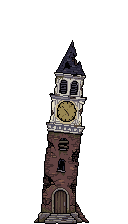
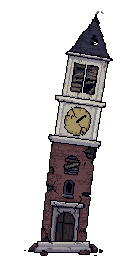
V7 W2: Clock tower T1-T5 regenerated at village scale, stretch removed

Changed region(s): [[0.1875, 0.0312, 0.9062, 1.0]]

diff --git a/test/villageLayout.test.js b/test/villageLayout.test.js
@@ -94,10 +94,10 @@ describe('clockTowerSlot', () => {
     test('844x390 landscape: feet on the horizon just above the floor band, centred in the field', () => {
         const s = slot();
         // field 544 wide from x=160; centre = 160 + 0.55 * 544 = 459.2; horizon = 334 - 72 - 4 = 258
-        // STOPGAP: stretched by the biggest scale that fits (here 1.43 of the 1.5 max), feet lowered into the floor band
+        // 2026-10-29: the stretch stopgap is gone, the regenerated 128x256 art is drawn 1:1
         const k = VillageLayout.clockScaleFor(334, OPTS);
-        expect(k).toBeGreaterThan(1.3);
-        expect(s.width).toBe(Math.round(128 * k));
+        expect(k).toBe(1);
+        expect(s.width).toBe(128);
         expect(s.left).toBe(Math.round(459.2 - s.width / 2));
         expect(s.feetY).toBe(VillageLayout.clockFeetY(334, OPTS));
         expect(s.top).toBe(s.feetY - s.height);
@@ -105,27 +105,24 @@ describe('clockTowerSlot', () => {
         expect(s.kind).toBe('punctuality');
     });
 
-    test('STOPGAP: the Clock tower is the authored canvas x the scale that fits (1 = clean 1:1 pixels)', () => {
+    test('the Clock tower is the authored 128x256 canvas drawn 1:1 (clean pixels, no stretch)', () => {
         const s = slot();
-        const k = VillageLayout.clockScaleFor(334, OPTS);
-        expect(s.width).toBe(Math.round(CONFIG.VILLAGE_SPRITE_W_PX * k));
-        expect(s.height).toBe(Math.round(CONFIG.VILLAGE_SPRITE_H_PX * k));
-        const unscaled = VillageLayout.clockTowerSlot(844, 334, 160, 140, 3, { ...OPTS, clockScale: 1 });
-        expect(unscaled.width).toBe(128);
-        expect(unscaled.height).toBe(224);
+        expect(s.width).toBe(CONFIG.VILLAGE_SPRITE_W_PX);
+        expect(s.height).toBe(CONFIG.VILLAGE_SPRITE_H_PX);
+        expect(s.width).toBe(128);
+        expect(s.height).toBe(256);
     });
 
-    test('CONFIG.VILLAGE_CLOCK_SCALE is a MAXIMUM: roomy canvases get it in full, short ones less (never below 1)', () => {
-        expect(VillageLayout.clockScaleFor(356, OPTS)).toBe(CONFIG.VILLAGE_CLOCK_SCALE);
-        expect(VillageLayout.clockScaleFor(298, OPTS)).toBeLessThan(CONFIG.VILLAGE_CLOCK_SCALE);
-        expect(VillageLayout.clockScaleFor(298, OPTS)).toBeGreaterThan(1);
-        expect(VillageLayout.clockScaleFor(100, OPTS)).toBe(1);
-        expect(VillageLayout.clockScaleFor(334, { ...OPTS, clockScale: 1 })).toBe(1);
+    test('CONFIG.VILLAGE_CLOCK_SCALE is 1: the 1.3x stopgap stretch was removed when the art was regenerated', () => {
+        expect(CONFIG.VILLAGE_CLOCK_SCALE).toBe(1);
+        [356, 334, 298, 100].forEach(h => expect(VillageLayout.clockScaleFor(h, OPTS)).toBe(1));
     });
 
-    test('the tower scale is sane (>= 1, <= 1.5)', () => {
-        expect(CONFIG.VILLAGE_CLOCK_SCALE).toBeGreaterThanOrEqual(1);
-        expect(CONFIG.VILLAGE_CLOCK_SCALE).toBeLessThanOrEqual(1.5);
+    test('the scale lever still works as a MAXIMUM if it is ever raised again (never below 1)', () => {
+        const o = { ...OPTS, clockScale: 1.5 };
+        expect(VillageLayout.clockScaleFor(500, o)).toBe(1.5);
+        expect(VillageLayout.clockScaleFor(298, o)).toBeLessThan(1.5);
+        expect(VillageLayout.clockScaleFor(100, o)).toBe(1);
     });
 
     test('every number is a whole pixel', () => {
@@ -185,7 +182,7 @@ describe('shipped sprites', () => {
         return { w: b.readUInt32BE(16), h: b.readUInt32BE(20) };
     }
 
-    test.each([1, 2, 3, 4, 5])('tier %i exists and is the authored 128x224 canvas', tier => {
+    test.each([1, 2, 3, 4, 5])('tier %i exists and is the authored 128x256 canvas', tier => {
         const file = path.join(__dirname, '..', VillageLayout.spriteUrl('punctuality', tier));
         expect(fs.existsSync(file)).toBe(true);
         const { w, h } = pngSize(file);
@@ -327,7 +324,7 @@ describe('shipped jail sprites', () => {
     });
 });
 
-describe('clock tower fit on short canvases (the stretched tower is taller)', () => {
+describe('clock tower fit on short canvases (the tower is 246px of art, so short canvases lower its feet)', () => {
     const feet = h => VillageLayout.clockFeetY(h, OPTS);
     const artTop = h => feet(h) - Math.ceil(CONFIG.VILLAGE_CLOCK_ART_H_PX * VillageLayout.clockScaleFor(h, OPTS));
     const base = h => h - CONFIG.GROUND_FLOOR_HEIGHT - CONFIG.VILLAGE_FEET_ABOVE_FLOOR_PX;
@@ -351,10 +348,23 @@ describe('clock tower fit on short canvases (the stretched tower is taller)', ()
         });
     });
 
-    test('a zero max drop means no lowering (and a smaller tower to fit)', () => {
-        const o = { ...OPTS, feetMaxDropPx: 0 };
+    test('a zero max drop means no lowering (and a smaller stretch to fit, if the stretch lever is raised)', () => {
+        const big = { ...OPTS, clockScale: 1.5 };
+        const o = { ...big, feetMaxDropPx: 0 };
         expect(VillageLayout.clockFeetY(298, o)).toBe(base(298));
-        expect(VillageLayout.clockScaleFor(298, o)).toBeLessThan(VillageLayout.clockScaleFor(298, OPTS));
+        expect(VillageLayout.clockScaleFor(334, o)).toBeLessThan(VillageLayout.clockScaleFor(334, big));
+    });
+
+    test('1:1 at 1280x720 (canvas 298): T5 is the tallest tier and fits exactly with the feet lowered the full 24px', () => {
+        expect(feet(298)).toBe(base(298) + CONFIG.VILLAGE_FEET_MAX_DROP_PX);
+        expect(artTop(298)).toBeGreaterThanOrEqual(0);
+    });
+
+    test('1:1 on the common phone canvases (334, 356): the tower fits with room above, feet on the horizon', () => {
+        [334, 356].forEach(h => {
+            expect(feet(h)).toBe(base(h));
+            expect(artTop(h)).toBeGreaterThanOrEqual(0);
+        });
     });
 
     test('the tower feet stay behind the back zombie lane', () => {

diff --git a/js/config.js b/js/config.js
@@ -509,13 +509,13 @@ const CONFIG = {
     // Sprites are authored 128 wide and drawn 1:1 (same pixel scale as the animated zombies).
     VILLAGE_ENABLED: true, // false hides the whole layer
     VILLAGE_SPRITE_W_PX: 128, // Clock tower canvas width
-    VILLAGE_SPRITE_H_PX: 224, // Clock tower canvas height (T5 needs the headroom); bottom-anchored
+    VILLAGE_SPRITE_H_PX: 256, // Clock tower canvas height (regenerated 2026-10-29, T1-T5 all 128x256); bottom-anchored
     VILLAGE_FEET_ABOVE_FLOOR_PX: 4, // feet sit this far above the floor band's top edge (the horizon)
-    // STOPGAP 2026-10-29 (Jeremy): the Clock tower art is ~1.3x too small next to the other buildings (door
-    // 12x20 vs the jail's 16x26). Until it is regenerated wider/taller, the sprite is STRETCHED by up to this factor
-    // (non-whole scale = slightly uneven pixels, against the ART_STYLE rule). Set to 1 once the new art ships.
-    VILLAGE_CLOCK_SCALE: 1.5, // MAXIMUM: short screens get the biggest scale that fits (VillageLayout.clockScaleFor)
-    VILLAGE_CLOCK_ART_H_PX: 196, // tallest tier's visible art height (T5), unscaled; used to decide how far to lower the feet
+    // The 1.3x STOPGAP stretch (2026-10-29 early) is OVER: the regenerated 128x256 Clock tower art has a door the same
+    // size as the Jailhouse's, so the tower is drawn 1:1 like every other building. Kept as a lever (it is a MAXIMUM
+    // scale in VillageLayout.clockScaleFor); leave it at 1 -- a non-whole scale breaks the ART_STYLE pixel rule.
+    VILLAGE_CLOCK_SCALE: 1, // 1 = clean 1:1 pixels
+    VILLAGE_CLOCK_ART_H_PX: 246, // tallest tier's visible art height (T5 = 246, T1 = 245), used to decide how far to lower the feet; must fit a 298px canvas (feet drop 24)
     VILLAGE_FEET_MAX_DROP_PX: 24, // the tower's feet may sink this far below the horizon on short canvases
     VILLAGE_CLOCK_X_FRAC: 0.55, // tower centre = church edge + frac x walking-field width
     VILLAGE_MIN_FIELD_PX: 220, // a narrower walking field hides the village

diff --git a/js/villageLayout.js b/js/villageLayout.js
@@ -3,12 +3,12 @@
  * (V7 W2, first slice 2026-10-29; docs/ART_STYLE.md "Achievement village art",
  * docs/WORLD_FEEDBACK_PLAN.md W2). No DOM, no State.
  *
- * This slice draws TWO buildings: the Clock tower (kind `punctuality`, 128x224) and the Jailhouse
+ * This slice draws TWO buildings: the Clock tower (kind `punctuality`, 128x256) and the Jailhouse
  * (kind `lurkers`, 128x128; added 2026-10-29). The other kinds, the tier-from-achievements wiring
  * and the close-up view are later W2 steps. Each building is placed at a fraction of the walking
  * field; a building that would overlap the church or another building is dropped, not moved.
  *
- *   SPRITE   authored on a 128px-wide canvas (Clock tower 128x224, bottom-anchored, tower art
+ *   SPRITE   authored on a 128px-wide canvas (Clock tower 128x256, bottom-anchored, tower art
  *            bottom-aligned inside it) and shown 1:1, the same pixel scale as the animated
  *            zombies and heroes. Never scaled, never rotated.
  *   FEET     on the horizon: just above the floor band's top edge (CONFIG.GROUND_FLOOR_HEIGHT),
@@ -22,7 +22,7 @@
 const VillageLayout = (() => {
     const DEFAULTS = {
         spriteWidthPx: 128,
-        spriteHeightPx: 224,
+        spriteHeightPx: 256,
         floorHeightPx: 72,
         feetAboveFloorPx: 4,
         clockXFrac: 0.55,
@@ -34,8 +34,8 @@ const VillageLayout = (() => {
         jailXFrac: 0.2,
         devJailTier: 3,
         minGapPx: 8,
-        clockScale: 1.5,
-        clockArtHeightPx: 196,
+        clockScale: 1,
+        clockArtHeightPx: 246,
         feetMaxDropPx: 24,
     };
 

diff --git a/test/villageView.test.js b/test/villageView.test.js
@@ -38,7 +38,7 @@ test('places one Clock tower sprite at the layout slot', () => {
     expect(imgs[0].getAttribute('src')).toBe('Assets/Village/punctuality_t3.png');
     expect(imgs[0].style.left).toBe(want.left + 'px');
     expect(imgs[0].style.top).toBe(want.top + 'px');
-    expect(imgs[0].style.width).toBe(want.width + 'px'); // stretched by CONFIG.VILLAGE_CLOCK_SCALE (stopgap)
+    expect(imgs[0].style.width).toBe(want.width + 'px'); // 128 wide, drawn 1:1 (the 1.3x stretch stopgap is gone)
     expect(imgs[0].style.height).toBe(want.height + 'px');
     expect(imgs[0].dataset.kind).toBe('punctuality');
     expect(imgs[0].dataset.tier).toBe('3');

diff --git a/sw.js b/sw.js
@@ -15,7 +15,7 @@
  * edited CSS/JS) so returning users pick up the update instead of serving a
  * stale cached shell forever — the whole point of a version string here.
  */
-const CACHE_NAME = 'deadline-shell-v136';
+const CACHE_NAME = 'deadline-shell-v137';
 
 const APP_SHELL = [
     './',

diff --git a/docs/ROADMAP.md b/docs/ROADMAP.md
@@ -252,9 +252,9 @@ Scoped from a structured live playtest.
 - [x] **HUD points button opens the Shop (2026-10-27, Claude app session, Sonnet; phone-verified by Jeremy):** the points stat is a button with the ↗ arrow that opens the Shop; the base-health button gained the arrow; the Shop header shows the points balance (red in debt). sw v127/v128. DECISIONS 2026-10-27.
 - [x] **Daily record D2 -- build steps 1-4 (BUILT 2026-10-27, Claude app session, Sonnet; plan `docs/DAILY_RECORD_PLAN.md`):** pure `js/dailyRecord.js` + tests; schema 15 (`save.today`) + `deadline.days` helpers + export/import merge; seams wired through `recordDaily`/`State.bumpToday` (completion/undo, overdue, lurkers, live + offline damage, shop/tokens, reschedule, KO/revive, timers); throttled `active` tracking; `State.closeDailyRecord` at rollover (18-month roll-up). sw v130. NOT yet verified on a phone.
 - [x] **Daily record D2 -- step 5: Stats best/worst day per run (BUILT 2026-10-27, Claude app session, Sonnet; Jeremy: default weights 1/1/1):** `DailyRecord.dayScore` / `bestWorstByRun` (pure), `CONFIG.DAILY_SCORE_WEIGHTS`, "Best & worst day" rows in the expanded past-run cards and the live current-run panel (live run also counts today's open record); sw v131; Jest 90 suites / 1,951 green on a full clone WITH `Assets/` (the 7 asset suites ran too). Not yet seen on a phone with real data: `deadline.days` gets its first entry at the first midnight rollover.
-- [ ] **Visual track V7 — World feedback: sky / distant city / graveyard (BRAINSTORMED 2026-10-27, Claude app session, Opus; DRAFT plan `docs/WORLD_FEEDBACK_PLAN.md`, nothing decided yet):** each scene region owns one time scale (sky = today, city = goals, graveyard = all-time achievements/runs). Sessions W0-W6 + design sessions D1 (Goals + Targets, Fable) and D2 (optional daily record for past-day review). Mockups built 2026-10-27 (Design canvas). DECIDED: V1 trees/tombstones removed when the graveyard lands; daily record (D2) is for AI insights + best/worst days, not back-paging. OPEN: horde vs meteor. **W0 layout BUILT 2026-10-28 (Claude app session, Opus plan -> Sonnet build; sw v133; Jest 93 suites / 2,003):** graveyard hill on the right (140px, 3 staggered headstone lanes, tree partly off-screen), past-run graves creeping across the field (newest by the hill, oldest fade near the church), zombie field ends at the hill; city band deferred to W5. Not phone-checked. **W2 REDEFINED 2026-10-28 evening (art-direction session, no code): the graveyard headstone markers become an Americana small-town VILLAGE on the horizon hill (8 buildings x 5 tiers) + the Memorial on the hill; spec in `docs/ART_STYLE.md` "Achievement village art"; sprites drawn at 2x like the church/zombies; Clock tower is the test building (violet version kept as an alternative in `Assets/Village/_source/gothic-violet/`).** **UPDATE 2026-10-29: Clock tower T1-T5 art DONE (128x192 canvas at 1x, revised rule) and the first village layer is BUILT on branch `feature/village-clock-tower` (dev tier from CONFIG; sw v134).** Next: other 8 buildings (new session), real tier data; W1 sky weather is independent.
+- [ ] **Visual track V7 — World feedback: sky / distant city / graveyard (BRAINSTORMED 2026-10-27, Claude app session, Opus; DRAFT plan `docs/WORLD_FEEDBACK_PLAN.md`, nothing decided yet):** each scene region owns one time scale (sky = today, city = goals, graveyard = all-time achievements/runs). Sessions W0-W6 + design sessions D1 (Goals + Targets, Fable) and D2 (optional daily record for past-day review). Mockups built 2026-10-27 (Design canvas). DECIDED: V1 trees/tombstones removed when the graveyard lands; daily record (D2) is for AI insights + best/worst days, not back-paging. OPEN: horde vs meteor. **W0 layout BUILT 2026-10-28 (Claude app session, Opus plan -> Sonnet build; sw v133; Jest 93 suites / 2,003):** graveyard hill on the right (140px, 3 staggered headstone lanes, tree partly off-screen), past-run graves creeping across the field (newest by the hill, oldest fade near the church), zombie field ends at the hill; city band deferred to W5. Not phone-checked. **W2 REDEFINED 2026-10-28 evening (art-direction session, no code): the graveyard headstone markers become an Americana small-town VILLAGE on the horizon hill (8 buildings x 5 tiers) + the Memorial on the hill; spec in `docs/ART_STYLE.md` "Achievement village art"; sprites drawn at 2x like the church/zombies; Clock tower is the test building (violet version kept as an alternative in `Assets/Village/_source/gothic-violet/`).** **UPDATE 2026-10-29: Clock tower T1-T5 art DONE (128x192 canvas at 1x, revised rule) and the first village layer is BUILT on branch `feature/village-clock-tower` (dev tier from CONFIG; sw v134). LATER 2026-10-29: the tower was regenerated at village scale (128x256, 1:1, stretch removed, sw v137, see the checked item below).** Next: other 8 buildings (new session), real tier data; W1 sky weather is independent.
   - [ ] **V7 village: Jailhouse (kind `lurkers`) T1-T5 BUILT on the village layer (2026-10-29, branch `feature/village-clock-tower`; sw v135; dev tier via `?jailTier=`).** Fieldstone county jail, 128x128, left of the tower; dropped (never nudged) when the field is too narrow. Not live-checked in the browser or on a phone.
-  - [ ] **V7 village: Clock tower is TOO SMALL next to the other buildings (STOPGAP BUILT 2026-10-29: the sprite is stretched `CONFIG.VILLAGE_CLOCK_SCALE` = 1.3x with uneven pixels, and on short canvases both buildings step down up to `VILLAGE_FEET_MAX_DROP_PX` = 24 into the floor band; real fix still open, set the scale to 1 when the new art ships).** Measured: tower door opening ~12x20 px vs jail ~16x26 px, so the tower needs ~1.3x; tower shaft is only ~30 px wide in a 39x192 art. Can't stretch (non-whole scale = uneven pixels; 2x = 448 px, too tall). FIX = regenerate T1-T5 wider AND taller in PixelLab: shaft ~50 px, art <= ~232 px (canvas 128x240, T5 capped at the same height), door >= 16x26; prompt in `docs/ART_STYLE.md`. Height budget: phone 844x390 feet y258 -> top ~26 (fits), 915x412 fits, desktop 1280x720 (canvas 298) clips ~28 px -> also lower the feet into the top of the floor band (~16 px, still behind the back lane at +24) and update `VILLAGE_SPRITE_H_PX`. Keep the jail <= the tower in height.
+  - [x] **V7 village: Clock tower regenerated at village scale and SHIPPED (DONE 2026-10-29; sw v137; village suites 118/118 in a cloud copy, full `npm test` still to run on your machine; not live-checked on a phone).** T1-T5 are 128x256, drawn 1:1; `CONFIG.VILLAGE_CLOCK_SCALE` = 1 (stretch removed), `VILLAGE_SPRITE_H_PX` 256, `VILLAGE_CLOCK_ART_H_PX` 246, feet lowered the full 24 px at desktop 1280x720 (T5 fits exactly). Details + the PixelLab lessons in `docs/ART_STYLE.md` "CLOCK TOWER T1-T5 REGENERATED AND SHIPPED". Original problem (kept for history, was: the tower too small next to the other buildings; stopgap 1.3x stretch, now removed). Measured: tower door opening ~12x20 px vs jail ~16x26 px, so the tower needs ~1.3x; tower shaft is only ~30 px wide in a 39x192 art. Can't stretch (non-whole scale = uneven pixels; 2x = 448 px, too tall). FIX = regenerate T1-T5 wider AND taller in PixelLab: shaft ~50 px, art <= ~232 px (canvas 128x240, T5 capped at the same height), door >= 16x26; prompt in `docs/ART_STYLE.md`. Height budget: phone 844x390 feet y258 -> top ~26 (fits), 915x412 fits, desktop 1280x720 (canvas 298) clips ~28 px -> also lower the feet into the top of the floor band (~16 px, still behind the back lane at +24) and update `VILLAGE_SPRITE_H_PX`. Keep the jail <= the tower in height.
   - [ ] **V7 village: baked overgrown/neglected variants (QUEUED 2026-10-29, Jeremy; LATER, after all 9 kinds x 5 tiers are done):** Jeremy likes PixelLab's baked vines/overgrowth for the apocalypse look (Jailhouse batch #13). Generate an overgrown version of EACH tier sprite (same canvas, same silhouette, reference = that tier's tended sprite at HIGH strength so only vines/weeds/grime are added) and show it when a building is neglected, instead of (or layered with) the shared code overlay. Open: slipping = light growth or code-only; does the desaturate filter still apply on top. Doubles the sprite count (45 -> 90), so batch it as its own art pass; update ART_STYLE 'Conditions are CODE' when built.
 - [ ] **Hero pixel avatars + chip layout (QUEUED 2026-10-14, after V4 church redesign; DECISIONS 2026-10-14):** 8 category sprites + a neutral default via PixelLab (brief: distinct palette, right-facing, framed so heroes never read as zombies), replace the emoji in `.hero-chip-avatar`; then decide chip size/placement in landscape, portrait and the list row together with the redesigned base. Optional later: per-routine hero picker (`heroId` + migration). **RE-SCOPED 2026-10-21 (Jeremy + Opus): heroes leave the base -> spotlight in front of the church (with scrim) on zombie/list-avatar tap, plus a pull-out Hero tray for avatars and slots; list stays urgency-sorted; heroes = healthy twins of the category zombies. Plan: `docs/HERO_SPOTLIGHT_PLAN.md` (5 sub-sessions; all design questions answered 2026-10-21). Sub-session 1 BUILT 2026-10-21 (`routine.heroCategory`, schema 12->13 seed, picker, `Heroes.heroCategoryFor`; sw.js v72). Sub-session 2 BUILT 2026-10-21 (spotlight + scrim, placeholder emoji art, KO both looks; sw.js v73). Sub-session 3 BUILT 2026-10-21 (Hero tab + pull-up tray, slots incl. open points, `#heroBaseZone` retired; sw.js v75). Sub-session 4 BUILT 2026-10-25 -- ALL 8 heroes (atlas + head crop; KO unfaded with a 3 s hold on the last frame; sw.js v88; Jest 78 suites / 1,637). Sub-session 5 (polish) BUILT 2026-10-25 -- hurt + level-up rows wired (`HeroSpotlight.react`), dead base-chip code deleted; sw.js v94; Jest 81 suites / 1,692 with 2 pre-existing `timeSliderView` failures (clock-dependent tests -- FIXED 2026-10-26, suite green); not live-checked. Level gear is NOT done (the work timer still uses idle). **2026-10-26 BUILT: attack row on task/habit completion** (`Items.completeItem` -> `deps.onItemDefeated` -> `HeroSpotlight.react(id,'attack')`, plays once then the normal 5 s spotlight; `CONFIG.HERO_ATTACK_ON_COMPLETE`; sw.js v108; Jest 85 suites / 1,817; live-checked in cloud Chromium for a standalone task, not on a phone; DECISIONS 2026-10-26). **Routine level-up modal animation (v111) phone-verified by Jeremy 2026-10-27.** **Completion attack phone-verified by Jeremy 2026-10-27.** **[x] Nights Survived unified (2026-10-27):** game-over, Stats, run history and achievements now count local midnights like the moon (sw v124; DECISIONS). **2026-10-26 follow-up BUILT:** every item has a hero (standalone -> its own category's) and an agenda-row body tap shows the hero only; hurt row loops while the hero's zombie attacks, scrim off, hero art sized to its category zombie, hero stands in its zombie's lane, a selected row holds its hero up (sw.js v107; all phone-verified by Jeremy 2026-10-26); Jest 84 suites / 1,797; live-checked in cloud Chromium, not on a phone.**
 - [ ] **Base Health panel (planned 2026-10-26; plan `docs/BASE_PANEL_PLAN.md`, mockups in the "Base Health Panel" Design canvas):** opened from the HUD health number. Prerequisite rule changes BUILT 2026-10-26 (quiet-span healing, pushbacks from now; DECISIONS). Order: [x] 1. `js/baseModel.js` pure core + tests (95d014a) · [x] 2. `js/ui/basePanel.js` + `css/basePanel.css` (2026-10-26; loaded in index.html/sw.js, sw v99, no opener yet) · [x] 3. HUD chip with ring (2026-10-26) · [x] 4. wire open + 1 s live refresh (+ index.html/sw.js; sw v100, 2026-10-26) · [x] 5. docs (UI_UX + MECHANICS, 2026-10-27) · [x] phone check of the panel + chip (Jeremy, 2026-10-27, good).

diff --git a/docs/ART_STYLE.md b/docs/ART_STYLE.md
@@ -74,9 +74,10 @@ authored on a 128px character canvas (atlas cells 180px zombies / 164px heroes, 
 1:1 (1 art px = 1 screen px). The church is the exception (80x200 shown at 2x). The 64x64 zombie PNGs are only the static fallback (shown at 2x); the
 earlier "2x" rule was judged against those, the wrong reference. **Village sprites are therefore authored on a 128px-wide canvas and shown at 1x in the
 scene; close-up = 2x (whole numbers only).** Never rotate a pixel sprite, never author big and shrink, never use 1.5x (uneven pixels).
-- **Canvas (Jeremy generated at 128x128 in PixelLab, 2026-10-28): 128 wide, height per building, bottom-centre anchored.** Clock tower T3 = **128x192**
-  (tower ~52x192 px, clock ~26px across in the top third). T5 may use a taller canvas (e.g. 128x224) for the cupola/vane/flag because sprites are
-  bottom-anchored. Other buildings 128x128 unless they need height. Tested and REJECTED: the 128x128 carve of the tower alone (30x122 = a needle, clock
+- **Canvas (Jeremy generated at 128x128 in PixelLab, 2026-10-28): 128 wide, height per building, bottom-centre anchored.** Clock tower: **128x256 for ALL
+  five tiers (regenerated 2026-10-29, see "Building scale vs the Clock tower" below; the first 128x192 / 128x224 art is superseded)**, art 221-246 px tall,
+  bottom-aligned. (First pass, kept for history: T3 128x192, tower ~52x192 px, clock ~26px across in the top third; T5 128x224 for the cupola/vane/flag because sprites are
+  bottom-anchored.) Other buildings 128x128 unless they need height. Tested and REJECTED: the 128x128 carve of the tower alone (30x122 = a needle, clock
   only ~14px) and 2x/1.5x of it (chunky / uneven pixels, 244px tall, runs into the HUD chips).
 - Detail target = the animated zombies. The tower must stand TALLER than the other buildings (landmark): the 128x192 tower vs a 128x128 courthouse
   (~95px tall) reads right on the scene mock.
@@ -152,7 +153,9 @@ fills its stage (it became a gold slab) (5) judge every candidate at 1x AND 2x o
 lanes (Playwright at 844x390), not on a flat sheet; (6) avoid two side-by-side windows over an arched door (reads as a face), curly lamp
 arms (noise at small size), and gold/ornament fills that hide the clock hands.
 
-**Building scale vs the Clock tower (measured 2026-10-29; STOPGAP in code: the sprite is stretched 1.3x via `CONFIG.VILLAGE_CLOCK_SCALE`, a known break of the whole-number rule, to be removed with the regenerated art):** the tower's door opening (~12x20 px) is smaller than the Jailhouse's (~16x26 px) and its shaft is only ~30 px wide, so the tower looks undersized beside the other buildings. Rule for every building: **doors should be a similar size across the village** (target ~16x26 px). Pixel art cannot be stretched by 1.3x, so the fix is regenerated art: tower shaft ~50 px wide, art <= ~232 px tall (canvas 128x240; T5 the same height), a LARGE arched double door ~16x28 px in the portico. T3 prompt = the baseline above with `about 84 pixels wide and 232 pixels tall` (PixelLab comes out ~1/3 narrower than asked), clock face ~30 px, and `a LARGE arched dark wooden double door about 16 pixels wide and 28 pixels tall`; reference = the current T3 at low-medium strength. Height budget: phone 844x390 and 915x412 fit; desktop 1280x720 (canvas 298) needs the feet lowered ~16 px into the floor band. Queued in ROADMAP V7.
+**CLOCK TOWER T1-T5 REGENERATED AND SHIPPED (DONE 2026-10-29, Claude app session):** all five tiers are 128x256 canvases, bottom-aligned (feet on row 255), drawn 1:1; `CONFIG.VILLAGE_CLOCK_SCALE` is now 1 (the 1.3x stretch stopgap is gone), `VILLAGE_SPRITE_H_PX` 256, `VILLAGE_CLOCK_ART_H_PX` 246, sw v137. Shipped as `Assets/Village/punctuality_t1..t5.png`; finals + PixelLab candidates in `Assets/Village/_source/americana-t3/rescale/` (`t1_final`, `t2_128x256_rescale_trim`, `t3_final`, `t4_final`, `t5_final`; the older 128x192/224 art stays in `americana-t3/ladder/`). Art height: T1 245 (leaning ruin, the PixelLab take with the lean baked in), T2 221, T3 239, T4 224 (wider body, corner pinnacles, two lamps), T5 246 (copper dome, bell, rooster vane, survivor flag, two lamps). Doors ~16x28 like the Jailhouse. The T5 cap of 246 is what fits a 298px desktop canvas with the feet lowered the full 24px (tested in `villageLayout.test.js`). **How it was made (reuse for the other 7 kinds):** (1) canvas 128x256, 16 variants, prompt = the T3 baseline with `about 84 pixels wide and ~200 pixels tall` (PixelLab comes out narrower than asked) and `a LARGE arched dark wooden double door about 16 pixels wide and 28 pixels tall`; (2) DELETE the phrase "the whole tower fills the canvas height" and ask for explicit empty space above and below (`10px empty space above the roof finial, 4px empty space below the steps`) -- that phrase made every result touch both canvas edges and cut off the steps; (3) a reference at MEDIUM strength is copied almost exactly (T4 first came out as "T3 plus lamps"), LOW-MEDIUM lets the silhouette change; build each tier up from the tier below, not down from the top; (4) PixelLab ignores some details (tall arched belfry openings, a taller belfry): ask once, then inpaint or draw it in code; (5) code fixes that worked: delete rows of PLAIN BRICK between features to shorten a tower (no stretching, seamless; used on T2, T3, T5), a dentil band under the clock ledge drawn in the sprite's own trim colours (T3), thicker clock hands edited by Jeremy (T4); (6) a lean can't be faked by shifting rows (jagged), let PixelLab draw it with the leaned sprite as the reference. Verified on mock scenes at canvas 334 / 356 / 298 (landscape). **DONE with this:** the Clock tower T5 now carries the same rust-red survivor flag as the Jailhouse T5 (the earlier TODO below). **TODO:** live-check in the real game and on a phone (not done: only mock scenes with placeholder zombies were checked); T5's clock hands are thinner than the T4 ones Jeremy thickened (optional).
+
+*(Superseded 2026-10-29, kept for history)* **Building scale vs the Clock tower (measured 2026-10-29; was a STOPGAP in code: the sprite stretched 1.3x via `CONFIG.VILLAGE_CLOCK_SCALE`, a known break of the whole-number rule, removed with the regenerated art above):** the tower's door opening (~12x20 px) is smaller than the Jailhouse's (~16x26 px) and its shaft is only ~30 px wide, so the tower looks undersized beside the other buildings. Rule for every building: **doors should be a similar size across the village** (target ~16x26 px). Pixel art cannot be stretched by 1.3x, so the fix is regenerated art: tower shaft ~50 px wide, art <= ~232 px tall (canvas 128x240; T5 the same height), a LARGE arched double door ~16x28 px in the portico. T3 prompt = the baseline above with `about 84 pixels wide and 232 pixels tall` (PixelLab comes out ~1/3 narrower than asked), clock face ~30 px, and `a LARGE arched dark wooden double door about 16 pixels wide and 28 pixels tall`; reference = the current T3 at low-medium strength. Height budget: phone 844x390 and 915x412 fit; desktop 1280x720 (canvas 298) needs the feet lowered ~16 px into the floor band. Queued in ROADMAP V7.
 
 **Jailhouse (`lurkers`) T1-T5, DONE 2026-10-29:** fieldstone county jail (red brick is avoided on purpose, see the AT-A-GLANCE DISTINCTNESS RULE), 128x128, star badge on the parapet, barred windows, off-centre door. Ladder: T1 collapsed corner + boarded windows + no light; T2 rough rubble, dim window; T3 cut stone + cornice, one lit window; T4 cream-grey parapet + hanging sign, two lit windows; T5 gold badge, two glowing lanterns, three lit windows and a TATTERED SURVIVOR FLAG (rust-red cloth, cream painted star, crooked rope-lashed wooden pole; chosen over a national flag, Jeremy 2026-10-29). Shipped as `Assets/Village/lurkers_t1-5.png`; PixelLab originals + candidates (#13 = vines, for the overgrown variants) in `Assets/Village/_source/americana-jail/`. TODO when the others are built: give the Clock tower T5 the same kind of survivor flag instead of its orange pennant, so every T5 building shares one look.
 

diff --git a/sessions/HANDOFF.md b/sessions/HANDOFF.md
@@ -11,6 +11,12 @@ Newest entry at TOP. Every session appends one entry before ending (use `/end-se
 **Watch out:** gotchas discovered this session
 ```
 
+## 2026-10-29 -- Clock tower regenerated + shipped at village scale (Claude app session, Opus advice -> Sonnet build; branch feature/village-clock-tower)
+**Did:** Regenerated all five Clock tower tiers in PixelLab with Jeremy (128x256 canvases, doors ~16x28 like the Jailhouse) and SHIPPED them as `Assets/Village/punctuality_t1..t5.png`. Removed the 1.3x stretch stopgap: `CONFIG.VILLAGE_CLOCK_SCALE` = 1, `VILLAGE_SPRITE_H_PX` 256, `VILLAGE_CLOCK_ART_H_PX` 246 (also in `VillageLayout.DEFAULTS`), sw.js v137. T5 was 256 px tall, so 10 rows of plain brick were deleted from its shaft (246) so it fits a 298px desktop canvas with the feet lowered the full 24px (the existing fit test enforces it). T3 got a dentil band under the clock ledge drawn in code and 7 plain-brick rows cut; T2 trimmed to 221; T1 is the PixelLab leaning-ruin take (245). Tests updated: `villageLayout.test.js` (1:1 scale/height, fit at 334/356/298, stretch lever as a MAXIMUM), `villageView.test.js` (comment). Docs: ART_STYLE (new "CLOCK TOWER T1-T5 REGENERATED AND SHIPPED" paragraph + PixelLab lessons), DECISIONS, ROADMAP (checked item), CLAUDE.md cache version. Source art + PixelLab candidates in `Assets/Village/_source/americana-t3/rescale/`.
+**State:** village suites 118/118 green in a cloud copy (3 suites, only the village files were run there). The FULL `npm test` has NOT been run. Mock-scene screenshots at canvas 334 / 356 / 298 with placeholder zombies look right (tower tallest, T5 vane exactly at the top edge on desktop). NOT live-checked in the real game or on a phone. Uncommitted on branch `feature/village-clock-tower`.
+**Next:** (a) run `npm test`, then eyeball `?villageTier=1..5` on a real server at 844x390 and 1280x720 (T5 should just fit; if its vane clips, trim the art further and lower `VILLAGE_CLOCK_ART_H_PX` to match). (b) Separate session: confirm the Americana mapping for the other 7 kinds + Memorial, then generate them (128x128 unless they need height; use the PixelLab lessons in ART_STYLE: no "fills the canvas" phrase, explicit empty space, low-medium reference). (c) Later: real punctuality tier data, neglected brightness floor, Memorial tappable?
+**Watch out:** (1) The tower must stay <= 246 px of art (desktop fit) unless the feet-drop budget or canvas rules change. (2) Never stretch village sprites by a non-whole scale; `VILLAGE_CLOCK_SCALE` must stay 1. (3) A PixelLab reference at MEDIUM strength is copied almost exactly. (4) Pushing and the git commands are Jeremy's step (corrupt-index rule). (5) The docs and code use CRLF line endings: edit them in a way that keeps CRLF (a text-mode rewrite flips every line and makes a whole-file git diff).
+
 ## 2026-10-29 -- V7 W2 first slice BUILT: Clock tower on the scene (Claude app session, Sonnet; branch feature/village-clock-tower)
 **Did:** Finished the Americana Clock tower ladder (T1-T5, 128x192 canvas, T5 128x224; saved 128x224 bottom-aligned in `Assets/Village/_source/americana-t3/ladder/`; T4 = pinnacle/lamp v2). Shipped as `Assets/Village/punctuality_t1..t5.png`. Built the village layer: pure `js/villageLayout.js`, DOM `js/ui/villageView.js`, `css/village.css`, `#villageLayer` inside `#gameCanvas` (z-index 1: under the MIDNIGHT line, under zombies), `CONFIG.VILLAGE_*` (tier comes from `VILLAGE_DEV_CLOCK_TIER`, default 3, or `?villageTier=1..5|off`; no punctuality tier data exists yet), script.js `VillageView.init/render` (refreshLayoutDims + afterTick), glanceStrip.css hides it, sw.js v134 + APP_SHELL. Tower shows only in landscape/desktop (hill width > 0 and field >= 220px). Tests: `villageLayout`, `villageView` (jsdom), `villageWiring` (new). Docs: ART_STYLE + DECISIONS (earlier today), this entry, ROADMAP note.
 **State:** Cloud Jest copy (without the full Assets/ folder and css/popups.css): 90 of 96 suites green incl. all three village suites, graveyard*, layout; the 6 failures (baseAnim, heroArt, heroSpotlight, spriteAnim, spriteFeet, subtask-list-unclipped) are missing-file errors (Assets json/png, popups.css), not assertions -- run `npm test` on your machine to confirm. Live check in the browser pane at 794x416: tower renders 128x224 on the hill, below the midnight line. NOT checked at 1280x720 (T5 may clip at the top: canvas only 298px tall; lower `VILLAGE_FEET_ABOVE_FLOOR_PX` if so), not on a phone. Uncommitted on branch `feature/village-clock-tower`.

diff --git a/docs/DECISIONS.md b/docs/DECISIONS.md
@@ -6,6 +6,19 @@ Append-only. Newest at top. Format: date — decision — why — alternatives r
 
 
 
+## 2026-10-29 -- Clock tower regenerated at village scale and shipped: 1:1 on a 128x256 canvas, stretch stopgap removed, T5 trimmed to 246 (Claude app session, Opus advice -> Sonnet build; layout constants + art only, no balance numbers)
+
+- **Shipped: `Assets/Village/punctuality_t1..t5.png`, all 128x256, bottom-aligned, drawn 1:1.** `CONFIG.VILLAGE_CLOCK_SCALE` 1.5 -> 1 (the 1.3x stopgap stretch is gone; the lever stays in `VillageLayout.clockScaleFor` as a MAXIMUM but must stay 1), `VILLAGE_SPRITE_H_PX` 224 -> 256, `VILLAGE_CLOCK_ART_H_PX` 196 -> 246, sw.js v136 -> v137. Tower door ~16x28 now matches the Jailhouse's, so the "doors similar size across the village" rule holds without a non-whole scale.
+- **Why 246 and not the PixelLab 256:** the project's own fit test says the tallest tier must not poke out of the top at canvas 298 (desktop 1280x720) with the feet lowered the full `VILLAGE_FEET_MAX_DROP_PX` (24). T5 came out 256 px tall, so 10 rows of plain brick were deleted from its shaft (no stretching, seamless); T5 is now 246 and fits exactly. Alternatives rejected: letting the rooster vane clip on desktop, dropping the feet more than 24 (would pass behind the back zombie lane), re-prompting PixelLab for a shorter T5.
+- **Art choices (Jeremy):** T1 keeps the leaning-ruin take (the lean is baked in by PixelLab; shifting rows in code looked jagged), so it is 245 tall and a little taller than T2 on purpose. T4 is the wider, pinnacled, two-lamp design (a medium-strength reference had produced "T3 plus lamps"). T3 is the slim tower with a columned portico, a dentil band under the clock ledge (drawn in code) and arched belfry openings; its 7 plain-brick rows under the ledge were cut to keep it at 239.
+- **Process lesson recorded in ART_STYLE:** delete "the whole tower fills the canvas height" from prompts and ask for explicit empty space top and bottom; reference strength medium copies, low-medium varies; build each tier up from the one below.
+- **Checks:** village suites 118/118 in a cloud copy (tests updated for 1:1: `villageLayout.test.js` scale/height/fit cases, `villageView.test.js` comment); mock-scene screenshots at canvas 334 / 356 / 298 with placeholder zombies. NOT done: full `npm test`, live game, phone.
+- **Open:** real tier data for the Clock tower; the other 7 kinds + Memorial (confirm the Americana mapping first); baked overgrown variants (queued).
+
+---
+
+
+
 ## 2026-10-28 (night) -- Clock tower T3 art: 128-wide canvas at 1x, tall tower, night-value rule (Claude app session, Sonnet; art spec only, no code, no balance numbers). SUPERSEDES the "2x / 64x80" parts of the entry below.
 
 - **Village sprites are authored on a 128px-wide canvas and shown at 1x (close-up 2x).** Jeremy checked PixelLab: zombies and heroes were made on 128x128 canvases; the atlas JSONs agree (`characterSize: 128`, drawn 1:1). The earlier "2x everywhere" rule was judged against the static 64px zombie PNGs, which are only the fallback. The church stays the 2x exception.

diff --git a/CLAUDE.md b/CLAUDE.md
@@ -35,7 +35,7 @@ At the end of every session, run `/end-session` (append HANDOFF entry, log decis
 
 - **Modular vanilla JS, no build step.** `index.html` + ~27 core modules in `js/` (new: `listOrder.js`, 2026-10-13) + 17 UI modules in `js/ui/` + 21 CSS files in `css/` (`responsive.css` loads last — order-sensitive). `script.js` (~1,900 lines) is boot/wiring only: deps builders + `window.*` names for inline onclicks. Game state is owned by `js/state.js` (`State.getX`/`State.setX`). Target layout: `docs/ARCHITECTURE.md`.
 - **Persistence:** localStorage `deadline.save`, `SCHEMA_VERSION = 15` (migrations in `js/persistence.js`); closed daily records in `deadline.days`; settings in `deadline.settings`; Backup & Transfer via `js/exportImport.js`.
-- **PWA:** `manifest.json` + cache-first `sw.js`. BUMP `CACHE_NAME` (currently `deadline-shell-v133`) on ANY shell-file change, and add new assets to its `APP_SHELL` list. Deployed via GitHub Pages from `main`.
+- **PWA:** `manifest.json` + cache-first `sw.js`. BUMP `CACHE_NAME` (currently `deadline-shell-v137`) on ANY shell-file change, and add new assets to its `APP_SHELL` list. Deployed via GitHub Pages from `main`.
 - **Tests:** Jest, 93 suites / 2,003 tests in `test/` (`npm test`; last full green 2026-10-28 in a cloud clone of origin/main WITH `Assets/` + the W0 files). Jest never loads `script.js` — boot/wiring regressions only show up in a live browser check.
 - **Progress:** Milestones 0–4 closed; Milestone 5 (live-play polish + visual track V1–V6, see `docs/VISUAL_DESIGN_PLAN.md`) in progress. Next queued items are in the top `sessions/HANDOFF.md` entry.
 - **Time slider scrub (2026-10-27):** scene layers no longer move with the slider; looping zombie/hero/cloud animations are stepped by the drag (`CONFIG.SCRUB_ANIM_MS_PER_MINUTE`, `TimeSliderView` uses `playbackRate`/`currentTime`, never `pause()/play()`). Preview attackers get `li.preview-attack-list-item` (red row). Add Task due time defaults to now + 5 min (`Forms.resolveSubmittedDueTime`). Survival count = NIGHTS (local midnights) everywhere since 2026-10-27; `Damage.computeDaysSurvived` must match `NightsSurvivedView.countMidnights`.
